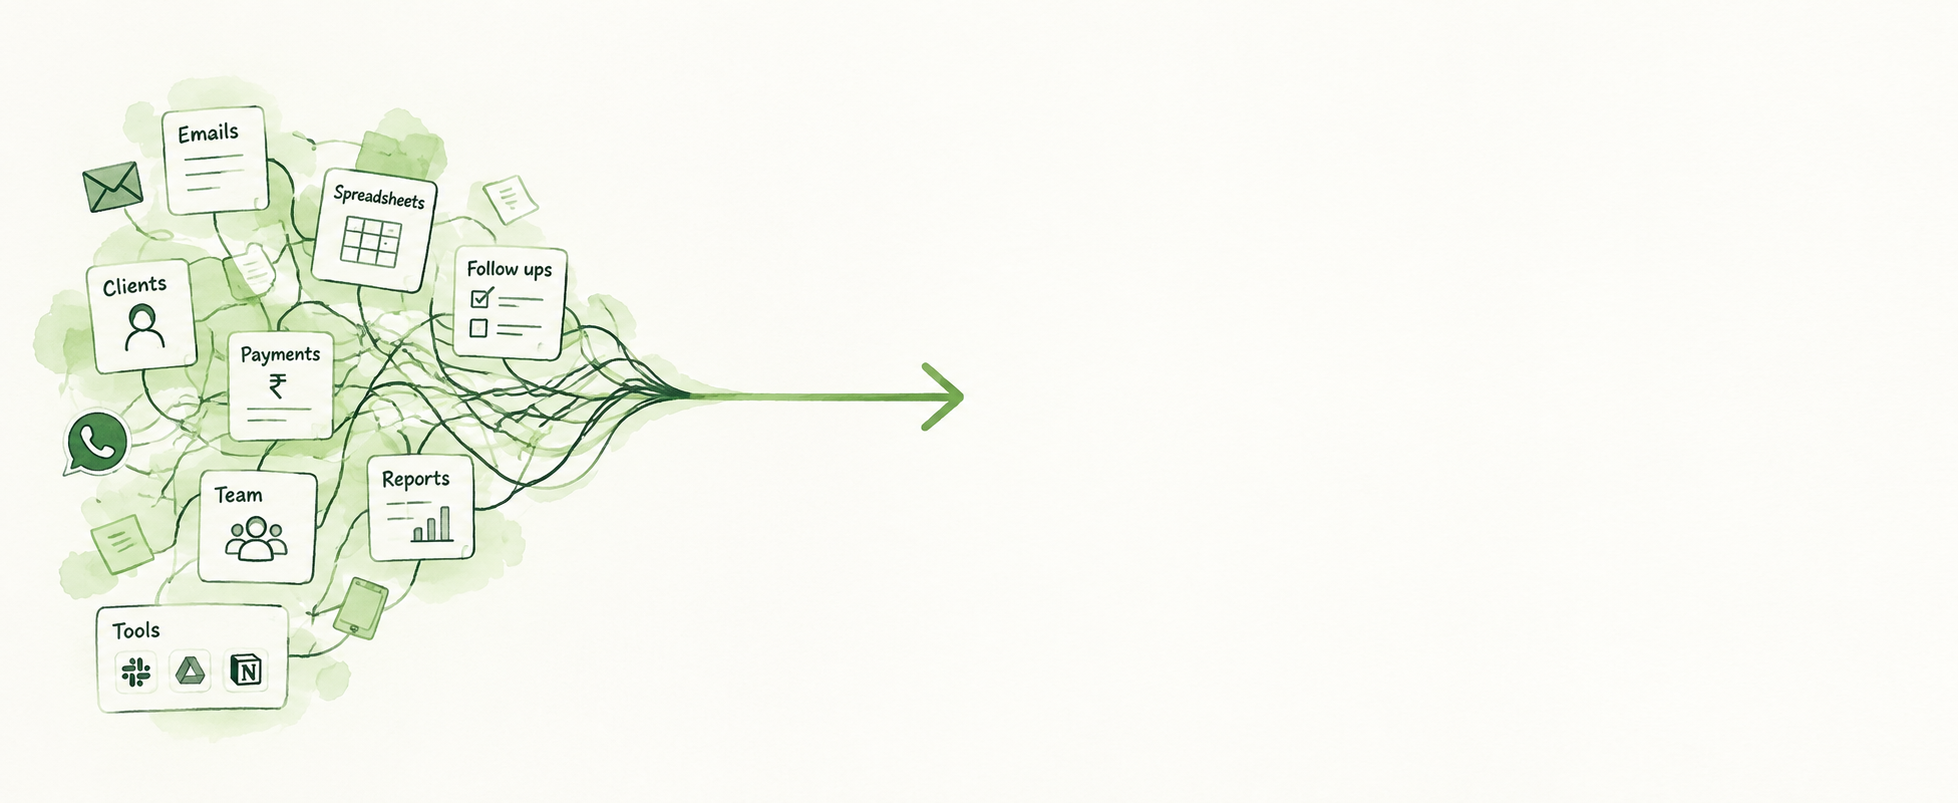
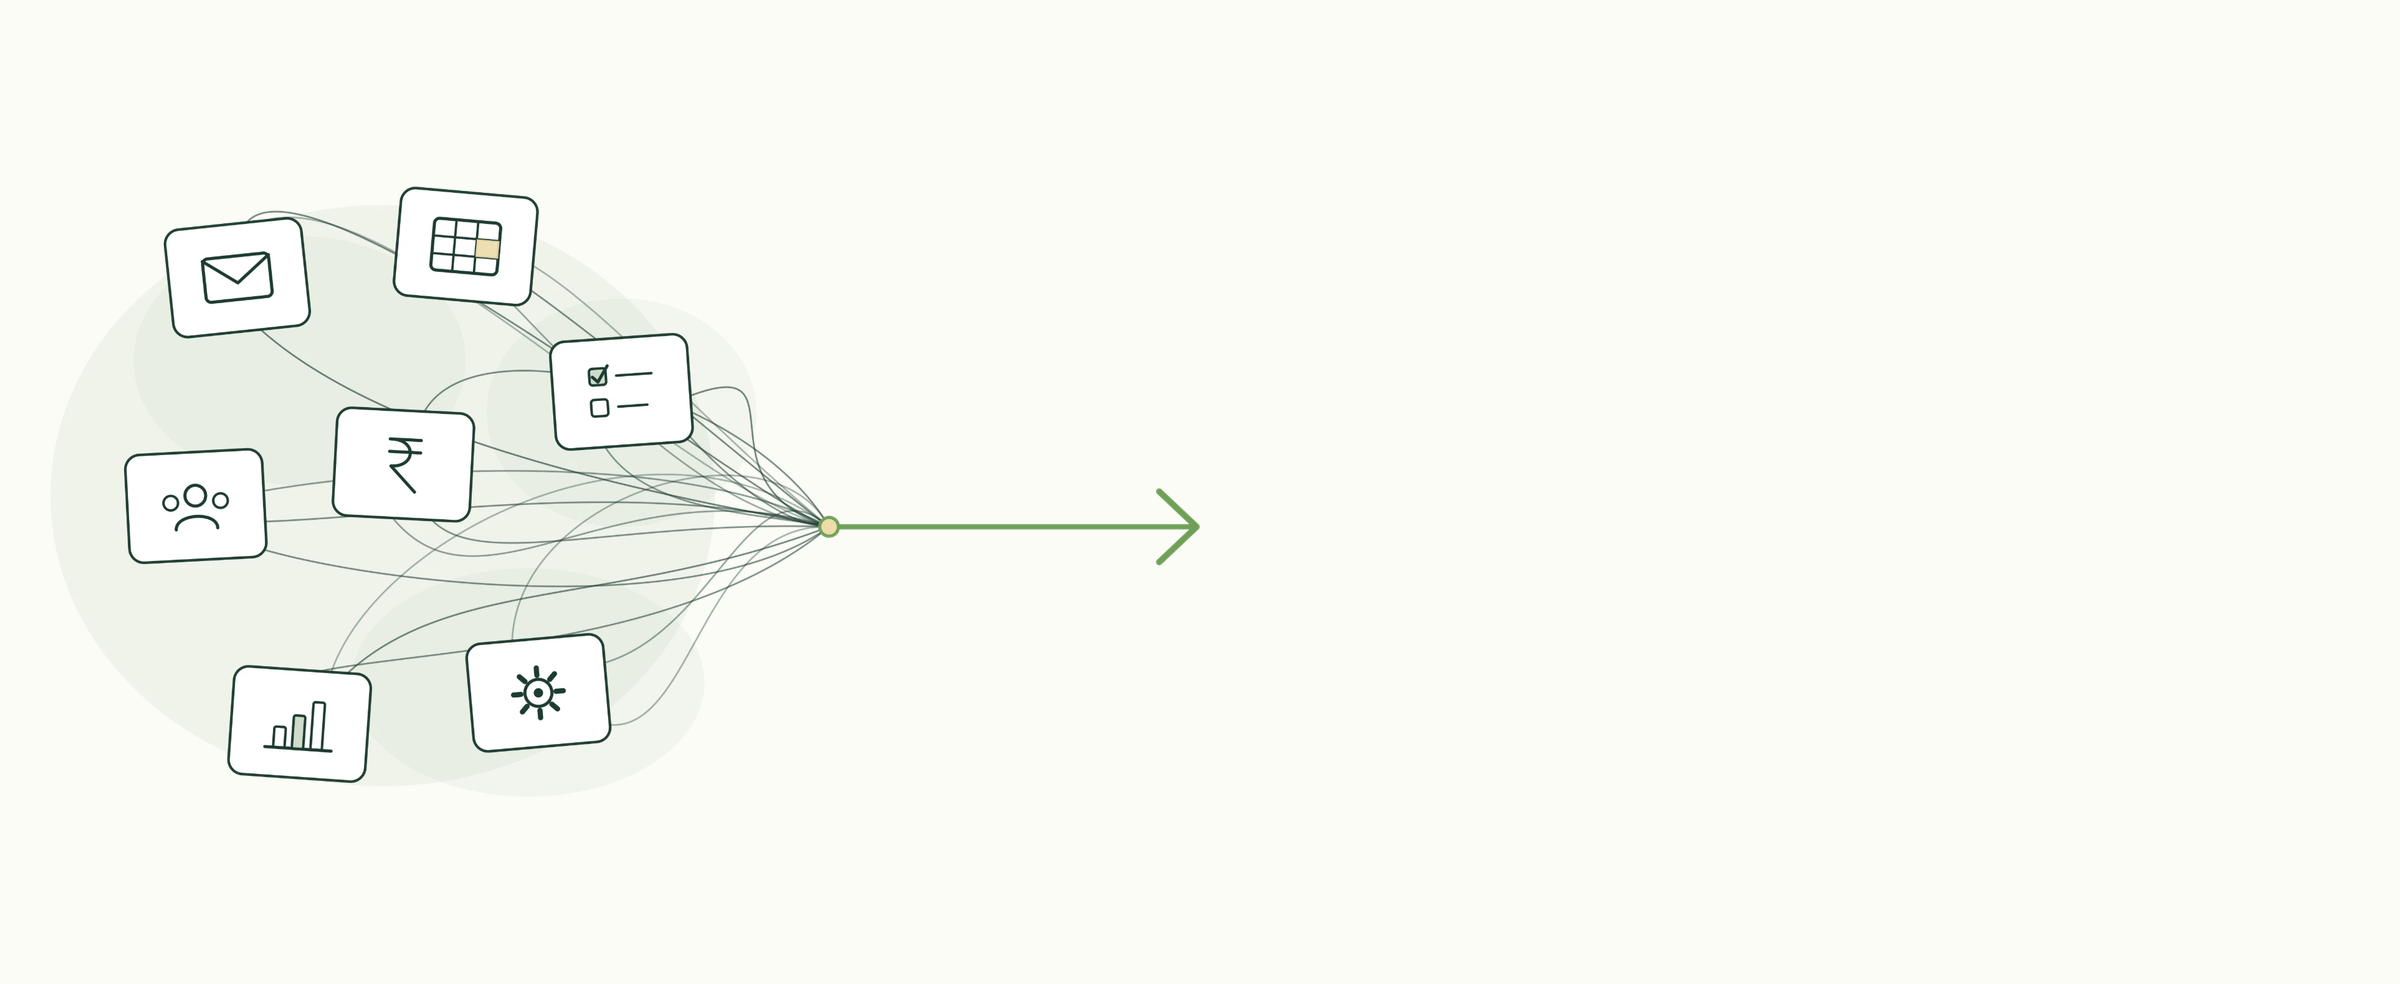
Replace CTA illustration with new artwork, fit mobile crop
Claude-Session: https://claude.ai/code/session_01QnA9ug4QFddpJDpd8kCeVd

Changed region(s): [[0.0, 0.0934, 0.4985, 0.934]]

diff --git a/styles.css b/styles.css
@@ -3449,7 +3449,7 @@ section{padding-top:var(--section-y);padding-bottom:var(--section-y)}
 
 .footer-col a{display:block;width:fit-content}
 @media (max-width:640px){
-  .cta-card{background-color:#F3F1E6;background-size:210% auto;background-position:2% 0;background-repeat:no-repeat}
+  .cta-card{background-color:#F3F1E6;background-size:190% auto;background-position:0 0;background-repeat:no-repeat}
   .cta-content{padding:min(62vw,300px) 24px 32px}
   #waky-services .waky-service-art{opacity:.2}
   .footer-links{display:grid;grid-template-columns:1fr 1fr;gap:28px 20px;width:100%}
